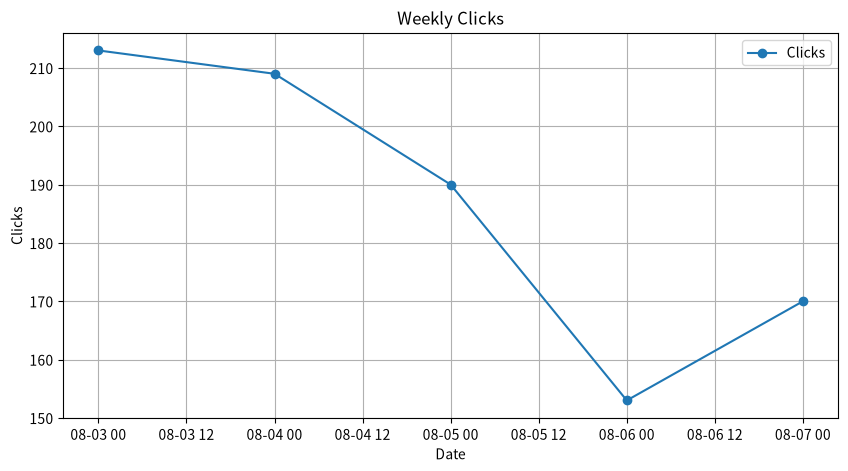
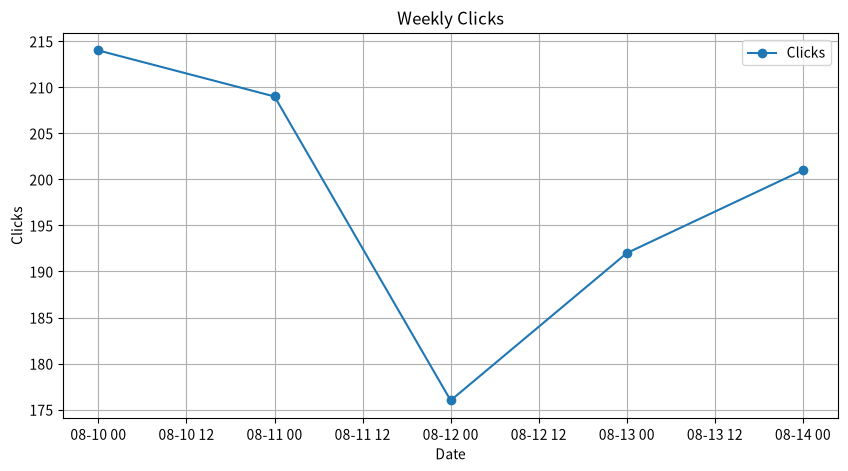
Weekly SEO report (2026-08-10 to 2026-08-16)

diff --git a/reports/index.html b/reports/index.html
@@ -13,14 +13,14 @@
   </style>
 </head>
 <body>
-  <h1>Weekly Report (2026-08-03 ~ 2026-08-09)</h1>
+  <h1>Weekly Report (2026-08-10 ~ 2026-08-16)</h1>
 
   <div class="card">
     <h2>Summary</h2>
     <table>
       <tr><th>Metric</th><th>This Week</th><th>Prev Week</th><th>Change</th></tr>
-      <tr><td>Clicks</td><td>935</td><td>1465</td><td>-36.2%</td></tr>
-      <tr><td>Impressions</td><td>53113</td><td>78395</td><td>-32.2%</td></tr>
+      <tr><td>Clicks</td><td>992</td><td>1293</td><td>-23.3%</td></tr>
+      <tr><td>Impressions</td><td>59740</td><td>74612</td><td>-19.9%</td></tr>
     </table>
     <p class="muted">※ Prev Week = 7日前の同期間</p>
   </div>
